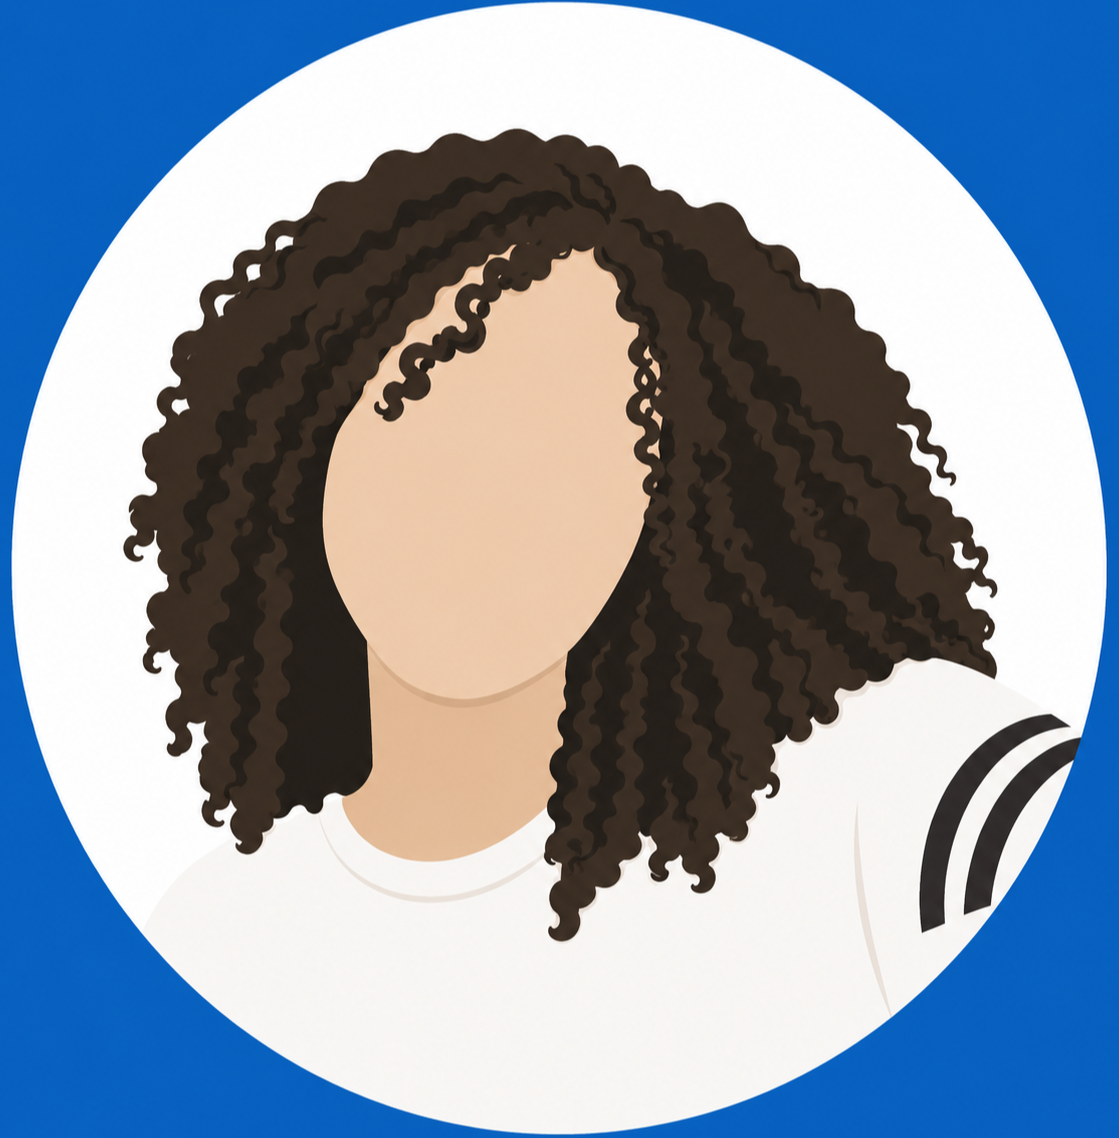
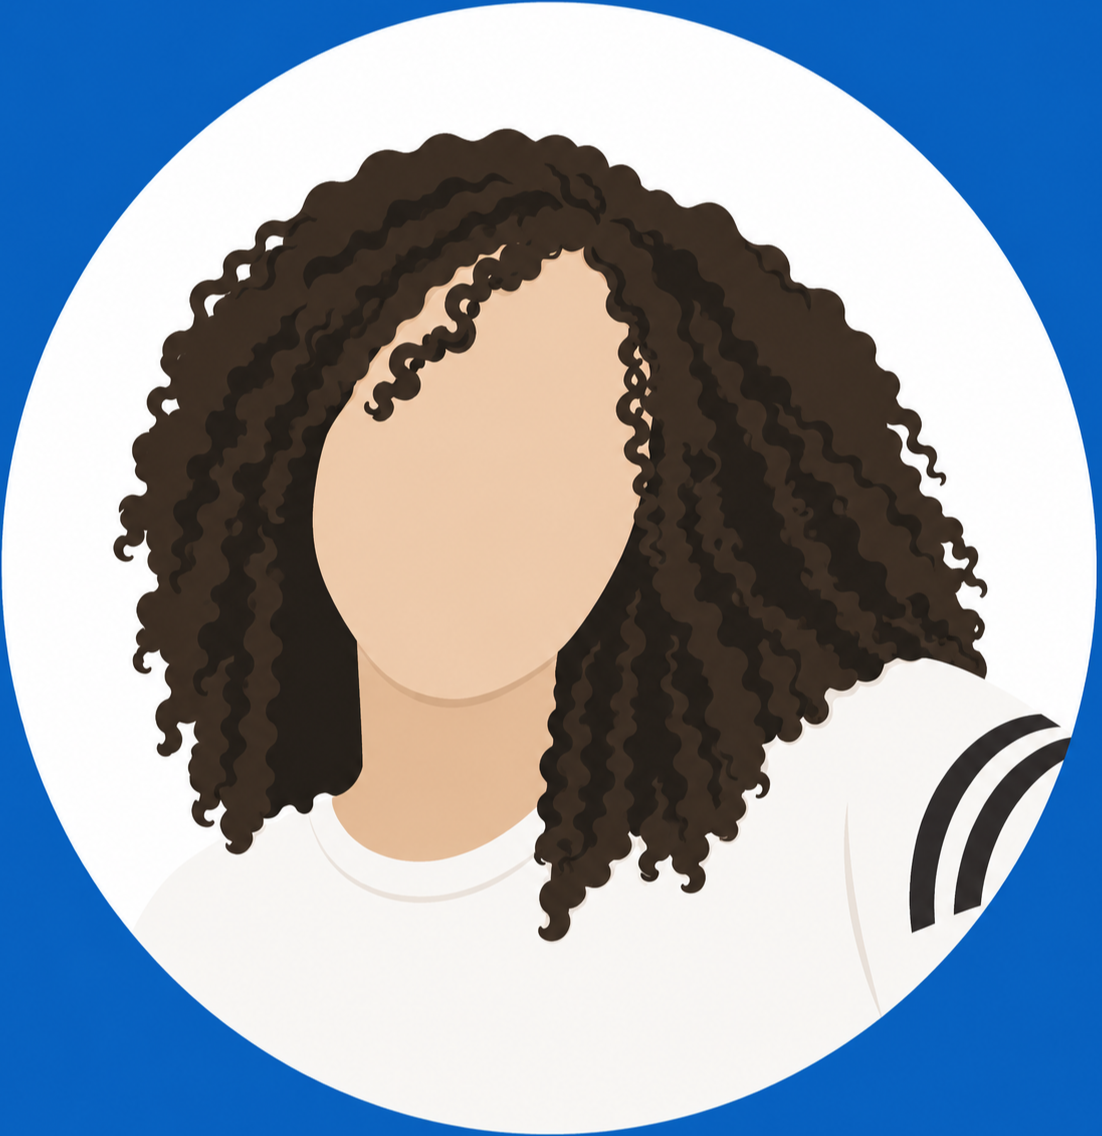
adição do nav link contatos (precisará de um burguer para a responsividade)

diff --git a/style.css b/style.css
@@ -96,6 +96,7 @@ body {
 .perfilWrap {
   display: flex;
   flex-direction: column;
+  width: fit-content;
   gap: 10px; /* aumentar espaço entre itens da coluna */
 }
 .container1 h1 {
@@ -108,6 +109,8 @@ body {
 .descricao {
   font-size: 1.2rem;
   text-align: justify;
+  overflow-wrap: break-word;
+  word-break: break-word;     /* Compatibilidade extra */
   margin-top: 34px !important; /* força espaçamento caso outra regra esteja sobrescrevendo */
 }
 .profPic {
@@ -115,7 +118,7 @@ body {
   /* place-items: center; */
 }
 .profPic > img {
-  width: 500px;
+  width: 400px;
   height: 100%;
   border-radius: 50%;
   object-fit: cover;

diff --git a/index.html b/index.html
@@ -15,6 +15,7 @@
       <h1><a href="index.html">Meu <span>Portfólio</span></a></h1>
       <div class="inicioEProjetos">
         <a href="#projetos" id="btnProjetos" class="nav-link">Projetos</a>
+        <a href="#contatos" class="nav-link">Contatos</a>
       </div>
     </header>
     <!-- por enquanto deixarei nesse modelo, mas posso mudar depois -->
@@ -101,7 +102,7 @@
 
     <footer class="rodape">
       <div>
-        <p class="ttlContato">CONTATO</p>
+        <p class="ttlContato" id="contatos">CONTATO</p>
         <div class="itensRodape">
           <a href="" target="_blank" rel="noopener noreferrer">
             <p><i class="fab fa-linkedin"></i>Meu LinkedIn</p>